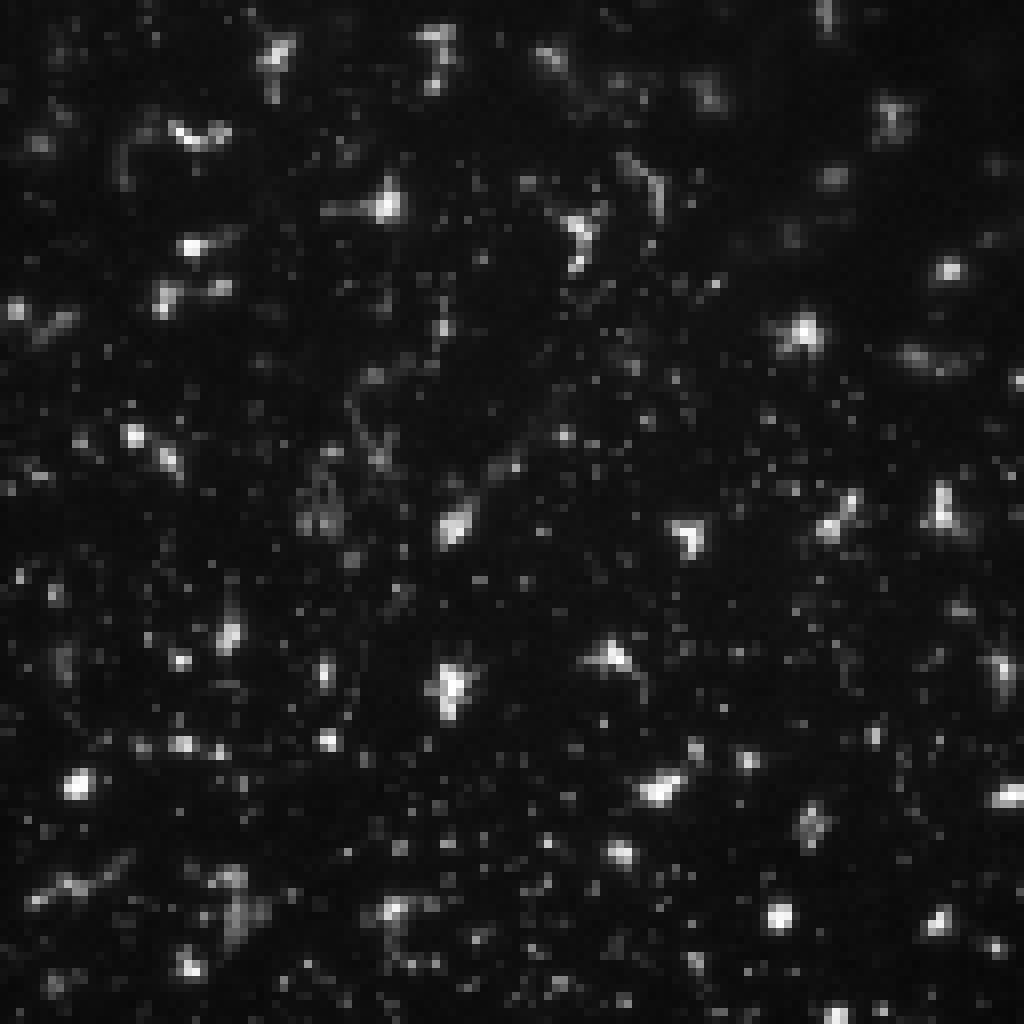
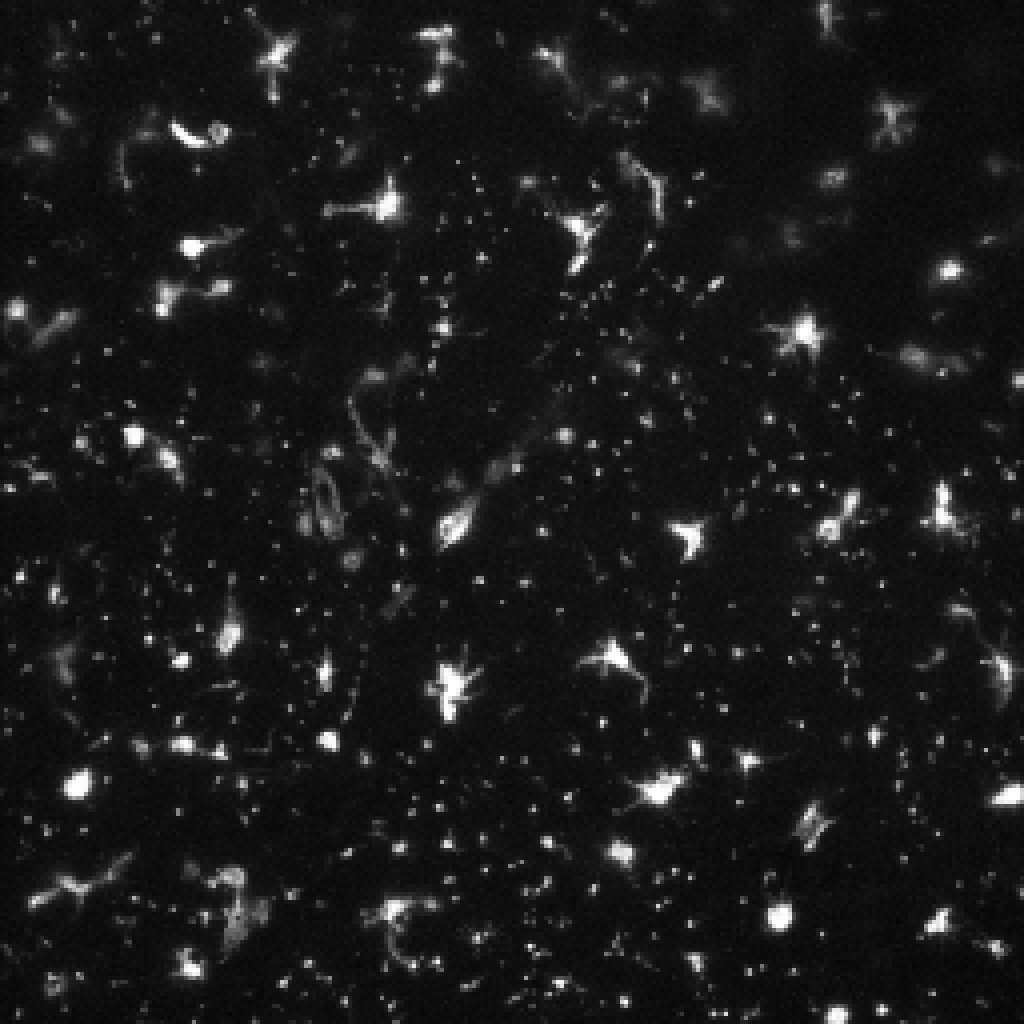
Obtaining results for Microglia Cell Boundary Identification

diff --git a/Programming/MAIN_ microglia.py b/Programming/MAIN_ microglia.py
@@ -38,7 +38,7 @@ def image_info(image_name, imArray):
     plt.xlabel('Pixel intensity')
     plt.ylabel('Number of pixels')
     plt.tight_layout()
-    plt.savefig('Programming/edited_images' + image_name + '_histogram.png')
+    plt.savefig('Programming/histograms/' + image_name + '_histogram.png')
     plt.show()
     
 
@@ -225,7 +225,9 @@ def binary_thresholding(prepared_image):
     Returns:
         thresh (array): thresholded image array
     """
-    threshold = 1/2 * prepared_image.mean() + prepared_image.std() - 2 # threshold value
+    threshold = prepared_image.mean() + 1/2 * prepared_image.std() # threshold value
+    print('Mean: ' + str(prepared_image.mean()))
+    print('Standard Deviation: ' + str(prepared_image.std()))
     # threshold = 37
     _, thresh = cv2.threshold(prepared_image, threshold, 255, cv2.THRESH_BINARY) # Pixel value > threshold set to 255, then inverted as cv2.findContours() requires white objects on black background
 
@@ -321,7 +323,7 @@ def cell_identification(binary_image, imArrayG, image_name):
 
 def main():
     folder_path = 'Programming/raw_images/'
-    image_name = 'fig10'
+    image_name = 'fig12b'
 
     # Import image
     imArray = image_import(folder_path, image_name)
